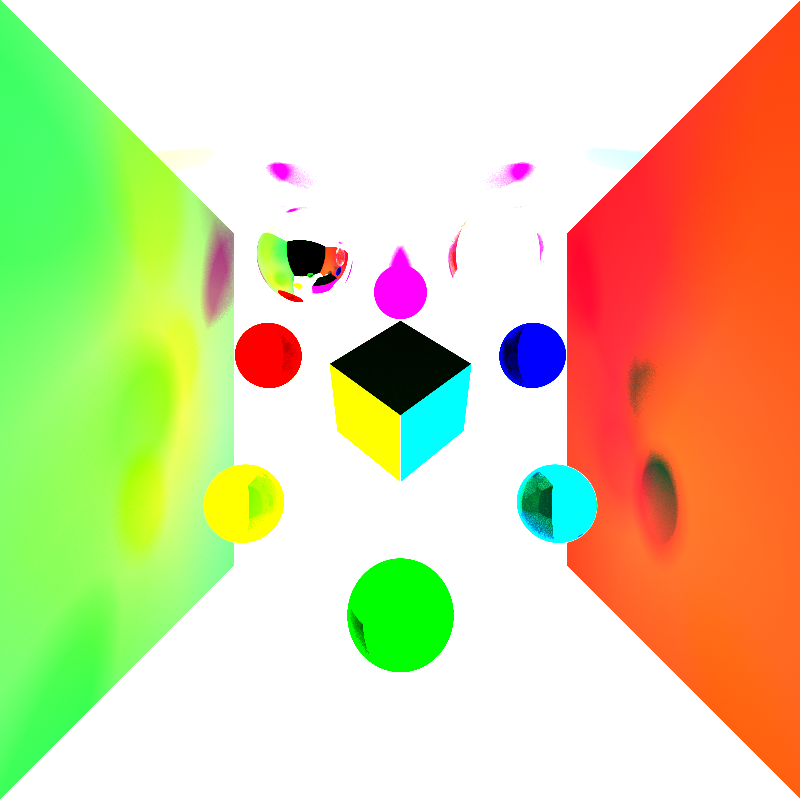
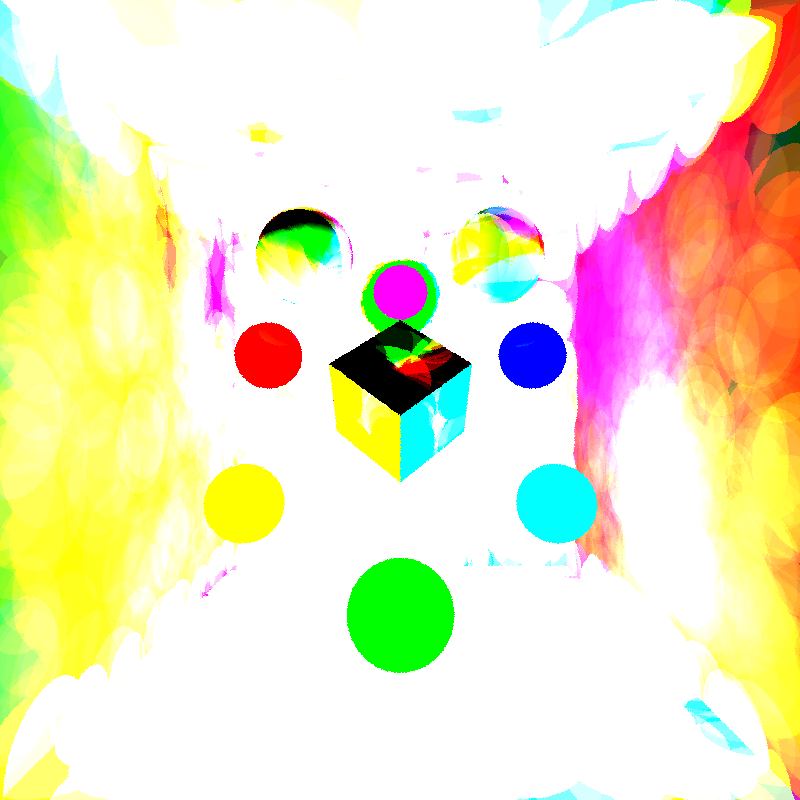
wrote gatherPhotons, rendered first image

diff --git a/src/sceneStructs.h b/src/sceneStructs.h
@@ -32,7 +32,8 @@ struct ray {
 struct photon {
 	bool stored;			// Check if the current photon has been stored, i.e. do not bounce this photon further
 	glm::vec3 position;		// Position of photon
-	glm::vec3 direction;	// Incoming direction of photon (potentially use theta phi?)
+	glm::vec3 din;	// Incoming direction of photon (potentially use theta phi?)
+	glm::vec3 dout; // Outgoing direction
 	glm::vec3 color;		// I think this essentially stores flux as well. : change to spectral eventually?
 	unsigned short bounces;
 #if COMPACTION

diff --git a/src/main.cpp b/src/main.cpp
@@ -164,7 +164,8 @@ void runCuda(){
       cout << "Saved frame " << s << " to " << filename << endl;
       finishedRender = true;
       if(singleFrameMode==true){
-        cudaDeviceReset(); 
+        cudaDeviceReset();
+				system("pause");
         exit(0);
       }
     }
